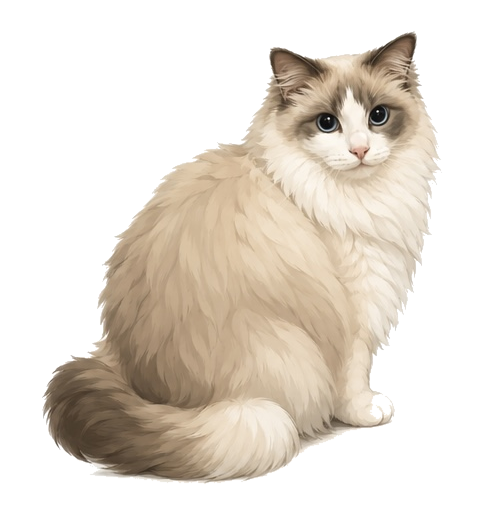
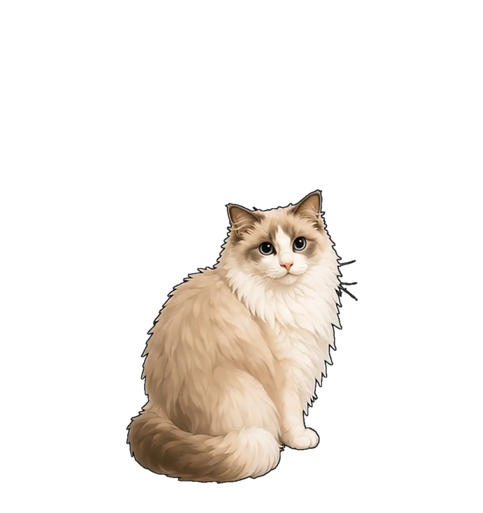
deleted old files

diff --git a/src/renderer/renderer.js b/src/renderer/renderer.js
@@ -28,22 +28,22 @@ const behaviorChances = {
 };
 
 const fallbackConfig = {
-  defaultFrame: './assets/yuki-sit-right.png',
+  defaultFrame: './assets/frames/sit-right/sit_right_00.png',
   sequences: {
     idle: {
       fps: 6,
       loop: true,
-      frames: ['./assets/yuki-sit-right.png']
+      frames: ['./assets/frames/sit-right/sit_right_00.png']
     },
     sitRight: {
       fps: 2,
       loop: false,
-      frames: ['./assets/yuki-sit-right.png']
+      frames: ['./assets/frames/sit-right/sit_right_00.png']
     },
     sitLeft: {
       fps: 2,
       loop: false,
-      frames: ['./assets/yuki-sit-right.png']
+      frames: ['./assets/frames/sit-left/sit_left_00.png']
     },
     blink: {
       fps: 14,
